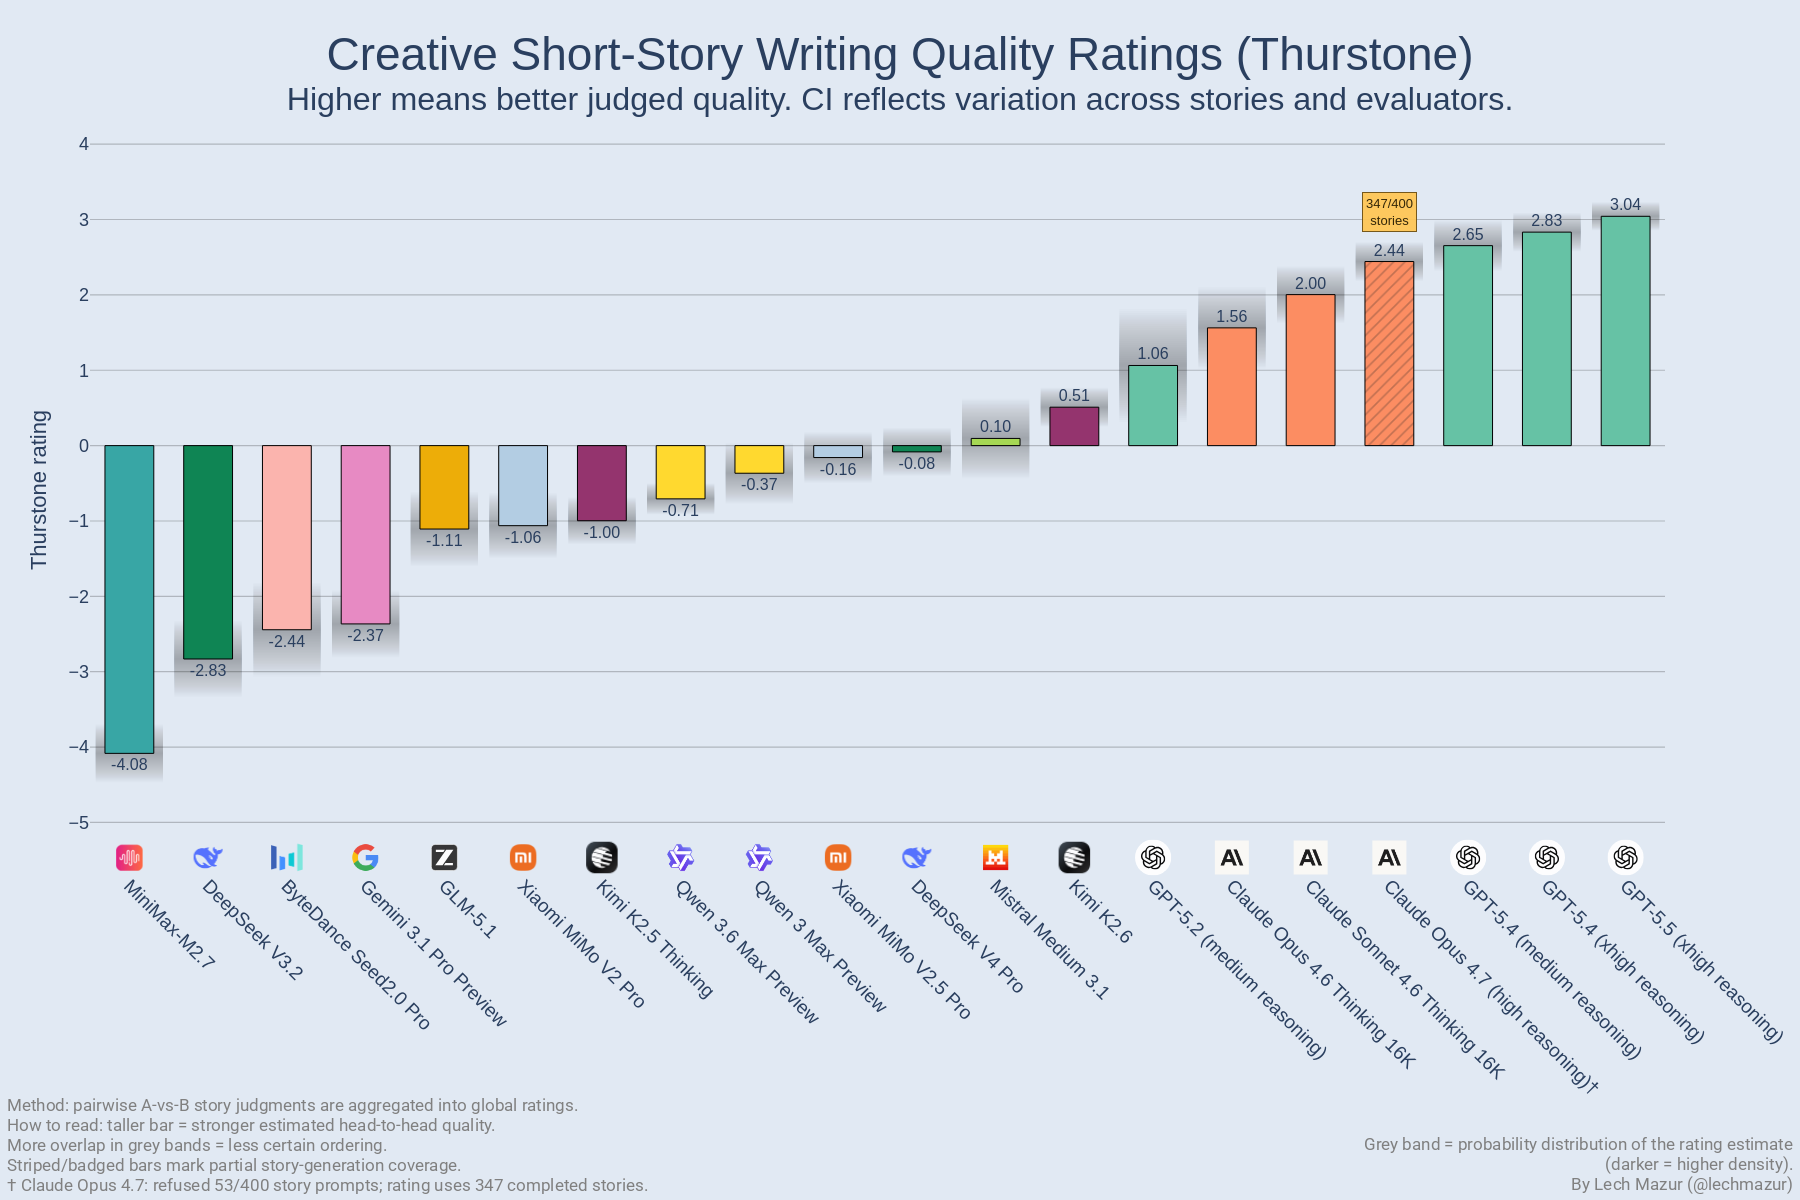
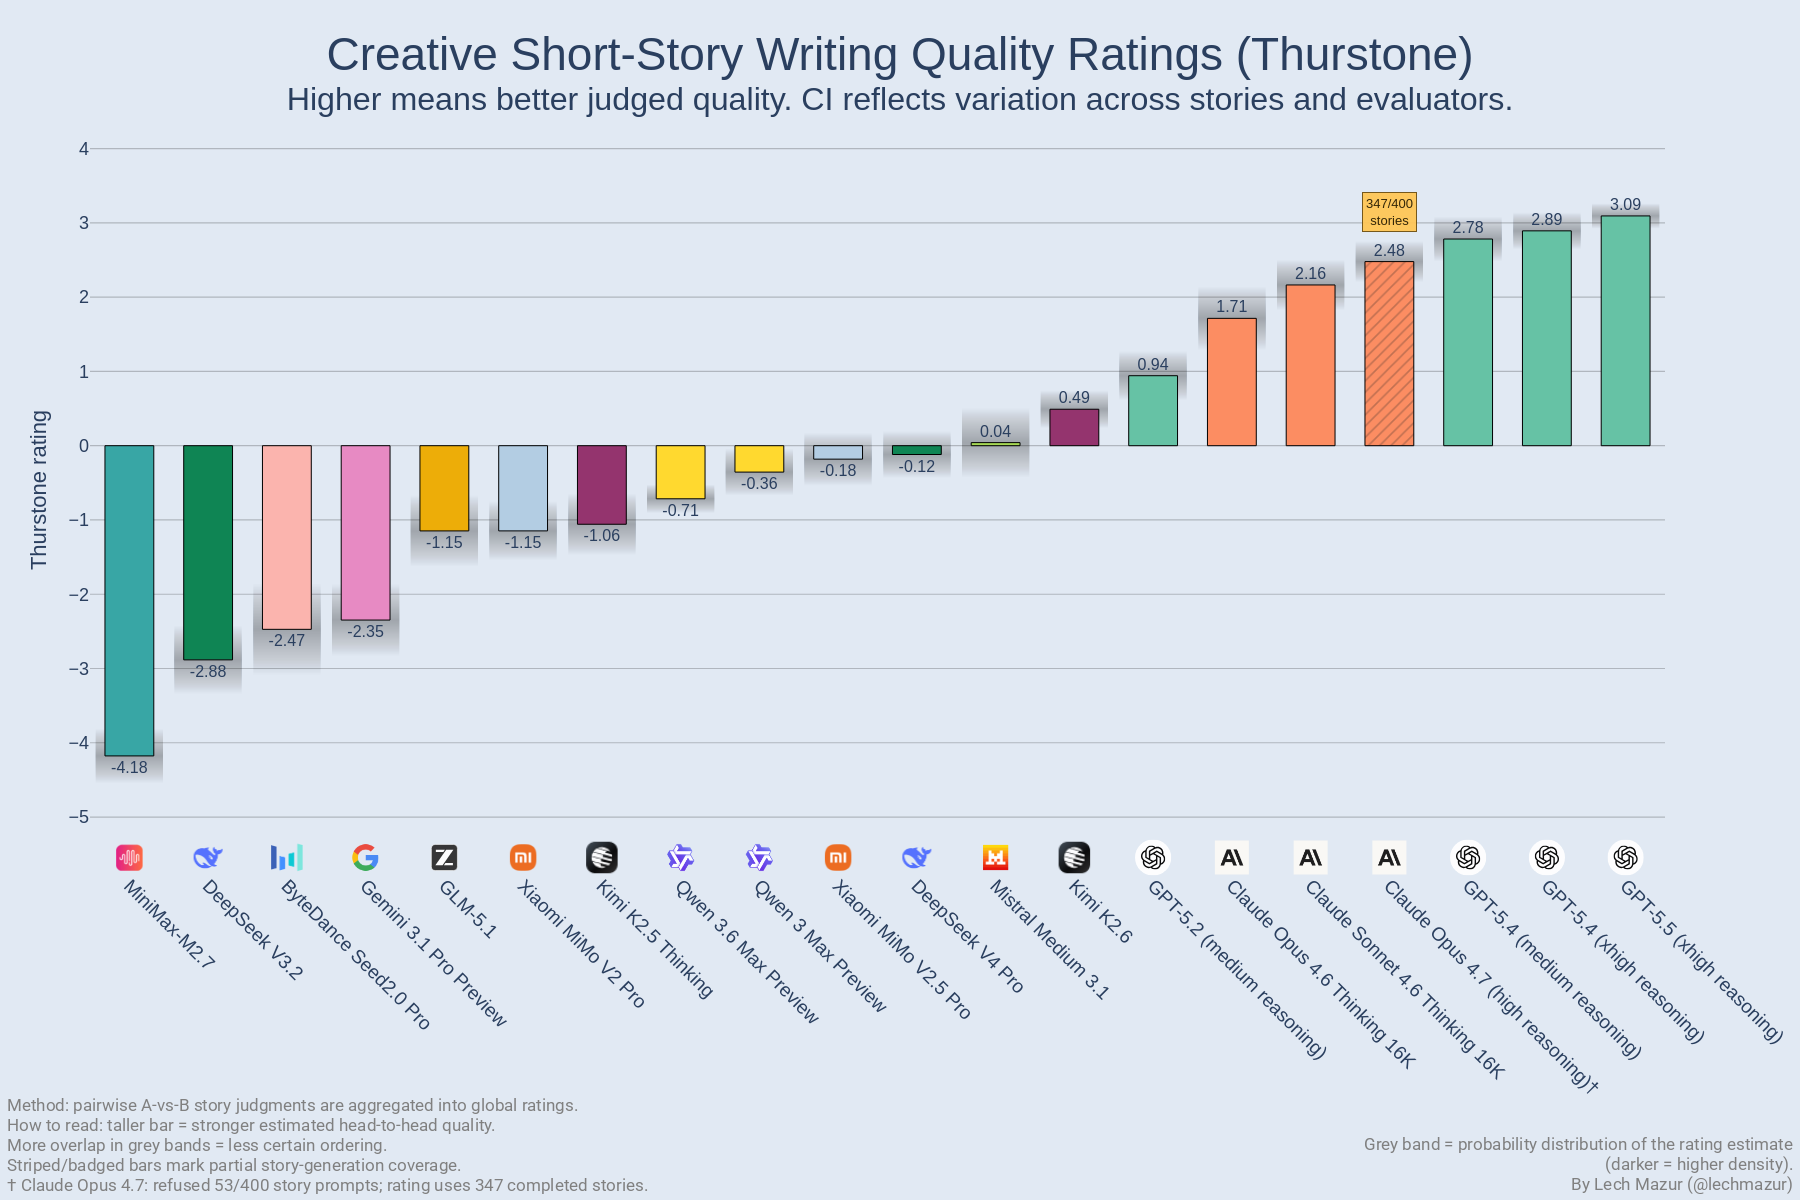
Publish refreshed comparison writeup

diff --git a/README.md b/README.md
@@ -12,37 +12,37 @@ Higher scores mean a model more often wins direct story comparisons against the 
 
 ### Leaderboard
 
-Current published comparison set:
+Current comparison set:
 
 - 20 rated models
-- 79 direct model pairings
-- about 12k parsed evaluator judgments
+- 112 direct model pairings
+- about 13k parsed evaluator judgments
 - uncertainty resampled across both stories and evaluators
 - side-position bias correction enabled
 - `†`, striped bars, and story-count badges mark model-specific story-generation coverage caveats
 
 | Rank | Model | Comparison Score | Win Prob vs Pool | 95% CI |
 |-----:|:------|-----------------:|-----------------:|:-------|
-| 1 | GPT-5.5 (extra-high reasoning) | 3.0 | 0.90 | 2.9..3.2 |
-| 2 | GPT-5.4 (extra-high reasoning) | 2.8 | 0.88 | 2.7..3.0 |
-| 3 | GPT-5.4 (medium reasoning) | 2.7 | 0.86 | 2.4..2.8 |
-| 4 | Claude Opus 4.7 (high reasoning)† | 2.4 | 0.84 | 2.3..2.6 |
-| 5 | Claude Sonnet 4.6 Thinking 16K | 2.0 | 0.78 | 1.7..2.2 |
-| 6 | Claude Opus 4.6 Thinking 16K | 1.6 | 0.73 | 1.2..1.9 |
-| 7 | GPT-5.2 (medium reasoning) | 1.1 | 0.66 | 0.6..1.5 |
+| 1 | GPT-5.5 (extra-high reasoning) | 3.1 | 0.90 | 3.0..3.2 |
+| 2 | GPT-5.4 (extra-high reasoning) | 2.9 | 0.88 | 2.7..3.0 |
+| 3 | GPT-5.4 (medium reasoning) | 2.8 | 0.87 | 2.6..3.0 |
+| 4 | Claude Opus 4.7 (high reasoning)† | 2.5 | 0.84 | 2.3..2.7 |
+| 5 | Claude Sonnet 4.6 Thinking 16K | 2.2 | 0.80 | 1.9..2.4 |
+| 6 | Claude Opus 4.6 Thinking 16K | 1.7 | 0.74 | 1.5..2.0 |
+| 7 | GPT-5.2 (medium reasoning) | 0.9 | 0.64 | 0.7..1.2 |
 | 8 | Kimi K2.6 | 0.5 | 0.57 | 0.3..0.7 |
-| 9 | Mistral Medium 3.1 | 0.1 | 0.51 | -0.3..0.4 |
+| 9 | Mistral Medium 3.1 | 0.0 | 0.50 | -0.2..0.3 |
 | 10 | DeepSeek V4 Pro | -0.1 | 0.48 | -0.3..0.1 |
 | 11 | Xiaomi MiMo V2.5 Pro | -0.2 | 0.47 | -0.4..0.0 |
-| 12 | Qwen 3 Max Preview | -0.4 | 0.44 | -0.6..-0.1 |
+| 12 | Qwen 3 Max Preview | -0.4 | 0.44 | -0.6..-0.2 |
 | 13 | Qwen 3.6 Max Preview | -0.7 | 0.39 | -0.8..-0.6 |
-| 14 | Kimi K2.5 Thinking | -1.0 | 0.34 | -1.2..-0.8 |
-| 15 | Xiaomi MiMo V2 Pro | -1.1 | 0.34 | -1.3..-0.8 |
+| 14 | Kimi K2.5 Thinking | -1.1 | 0.34 | -1.3..-0.8 |
+| 15 | Xiaomi MiMo V2 Pro | -1.1 | 0.33 | -1.4..-0.9 |
 | 16 | GLM-5.1 | -1.1 | 0.33 | -1.4..-0.8 |
-| 17 | Gemini 3.1 Pro Preview | -2.4 | 0.17 | -2.7..-2.1 |
-| 18 | ByteDance Seed2.0 Pro | -2.4 | 0.16 | -2.8..-2.0 |
-| 19 | DeepSeek V3.2 | -2.8 | 0.12 | -3.1..-2.5 |
-| 20 | MiniMax-M2.7 | -4.1 | 0.04 | -4.3..-3.8 |
+| 17 | Gemini 3.1 Pro Preview | -2.3 | 0.17 | -2.6..-2.0 |
+| 18 | ByteDance Seed2.0 Pro | -2.5 | 0.16 | -2.9..-2.2 |
+| 19 | DeepSeek V3.2 | -2.9 | 0.12 | -3.2..-2.6 |
+| 20 | MiniMax-M2.7 | -4.2 | 0.03 | -4.4..-3.9 |
 
 ### Coverage Note
 
